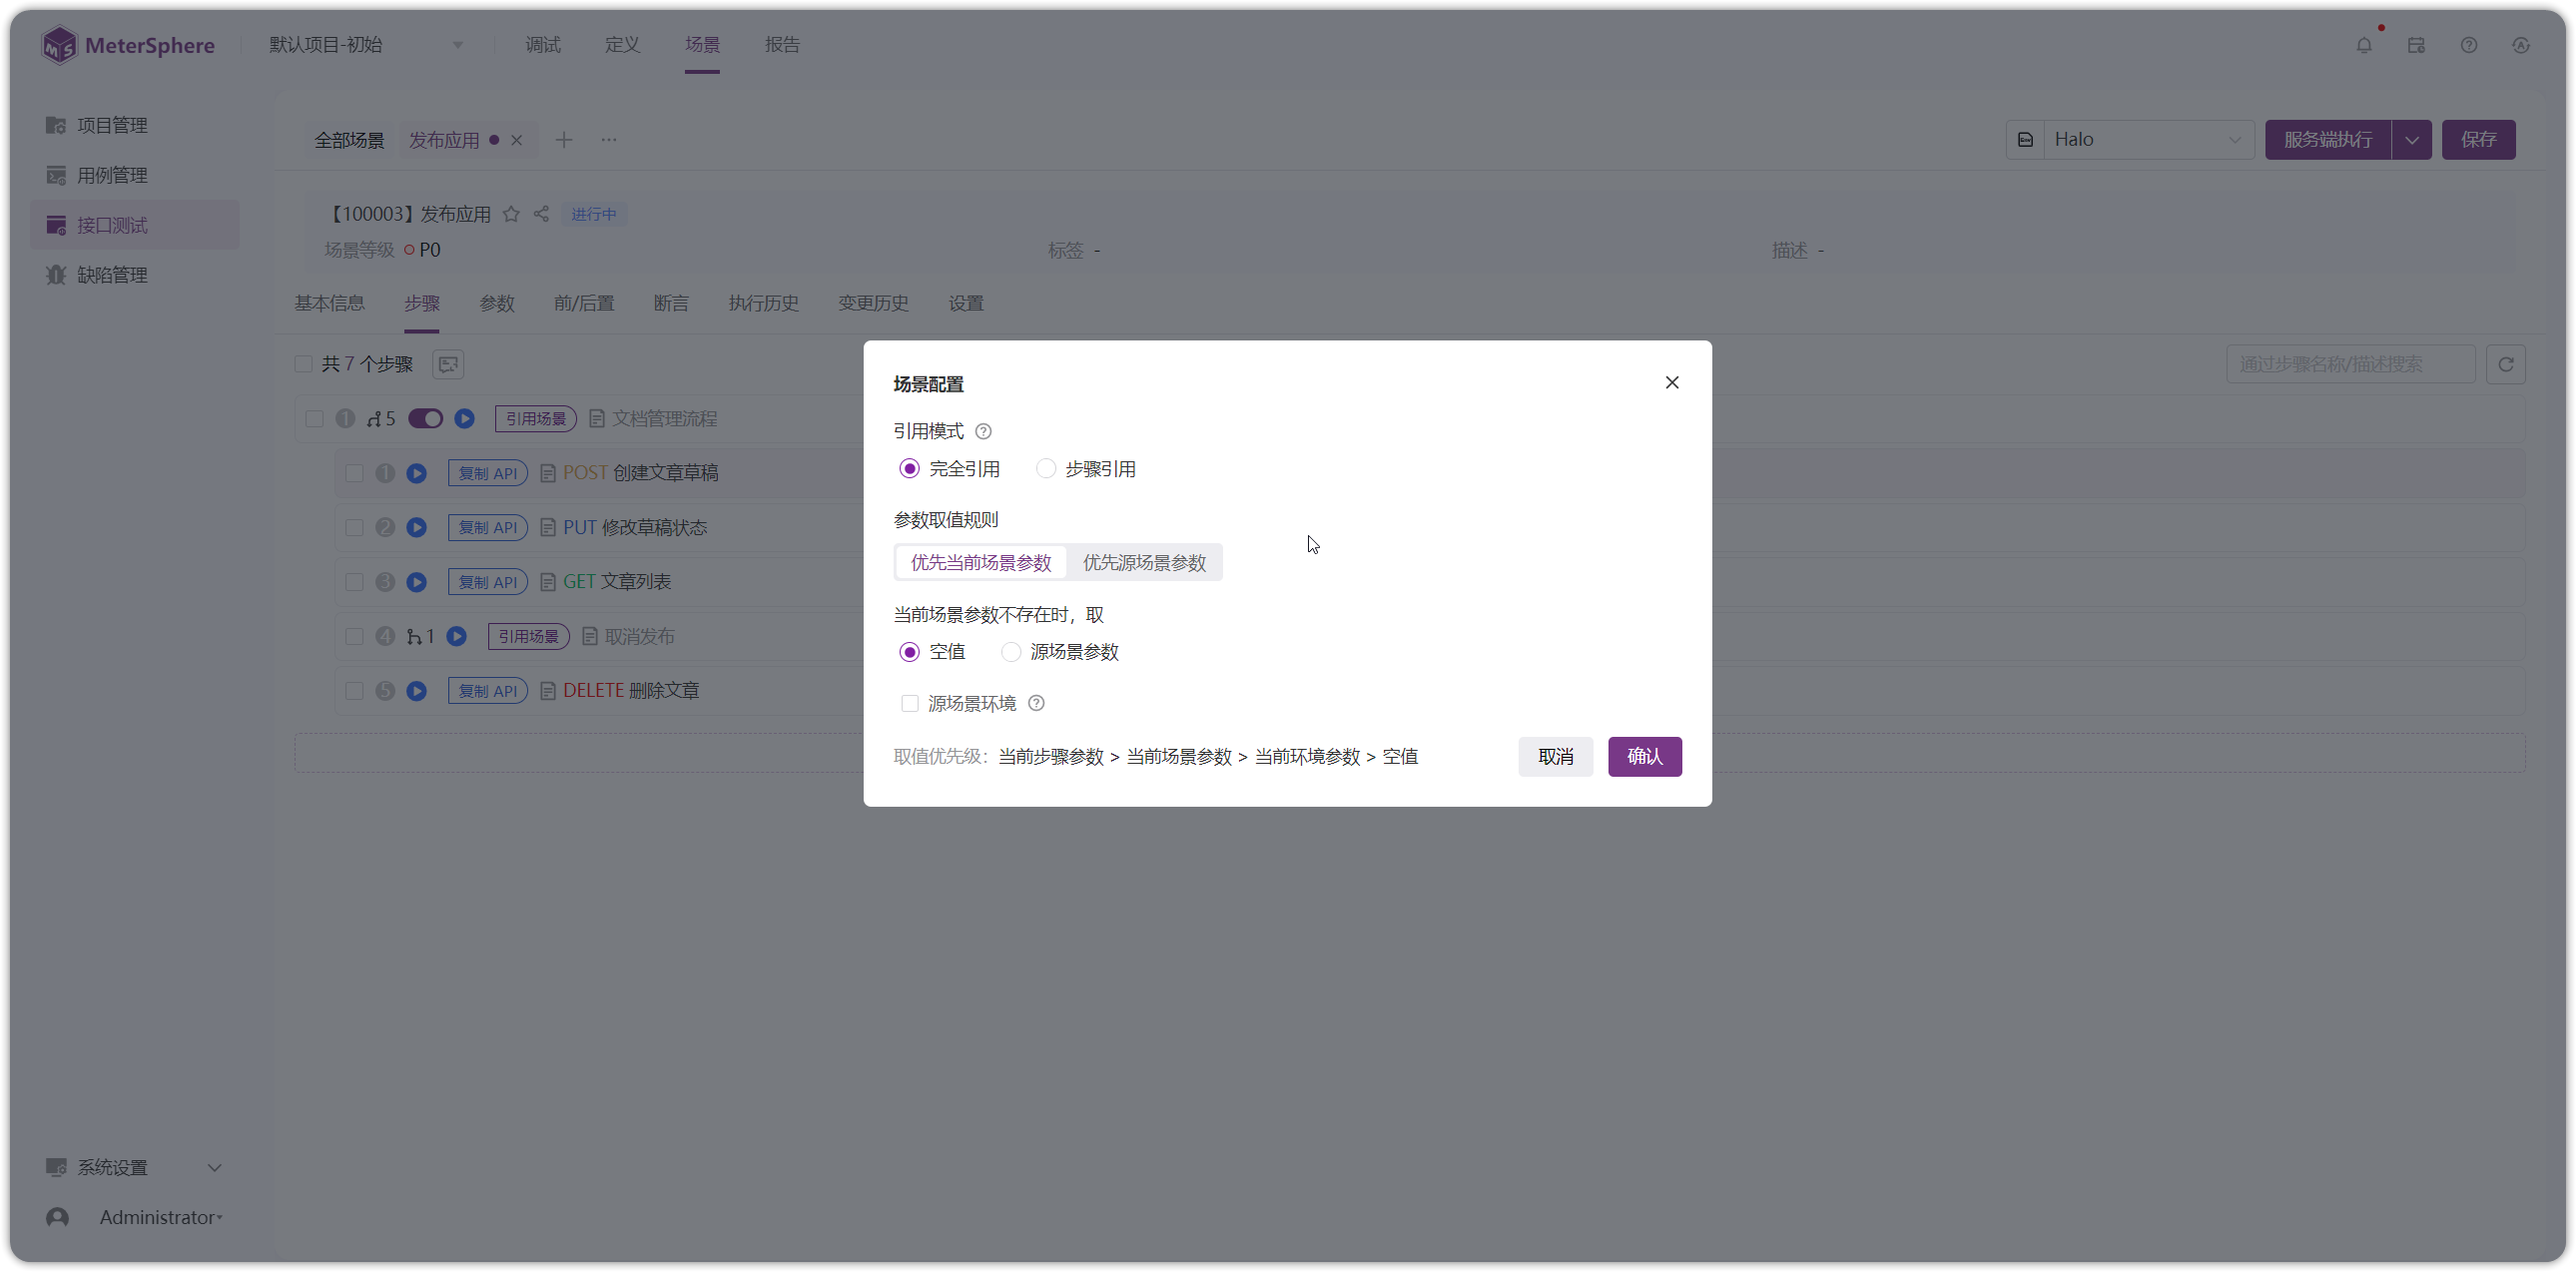
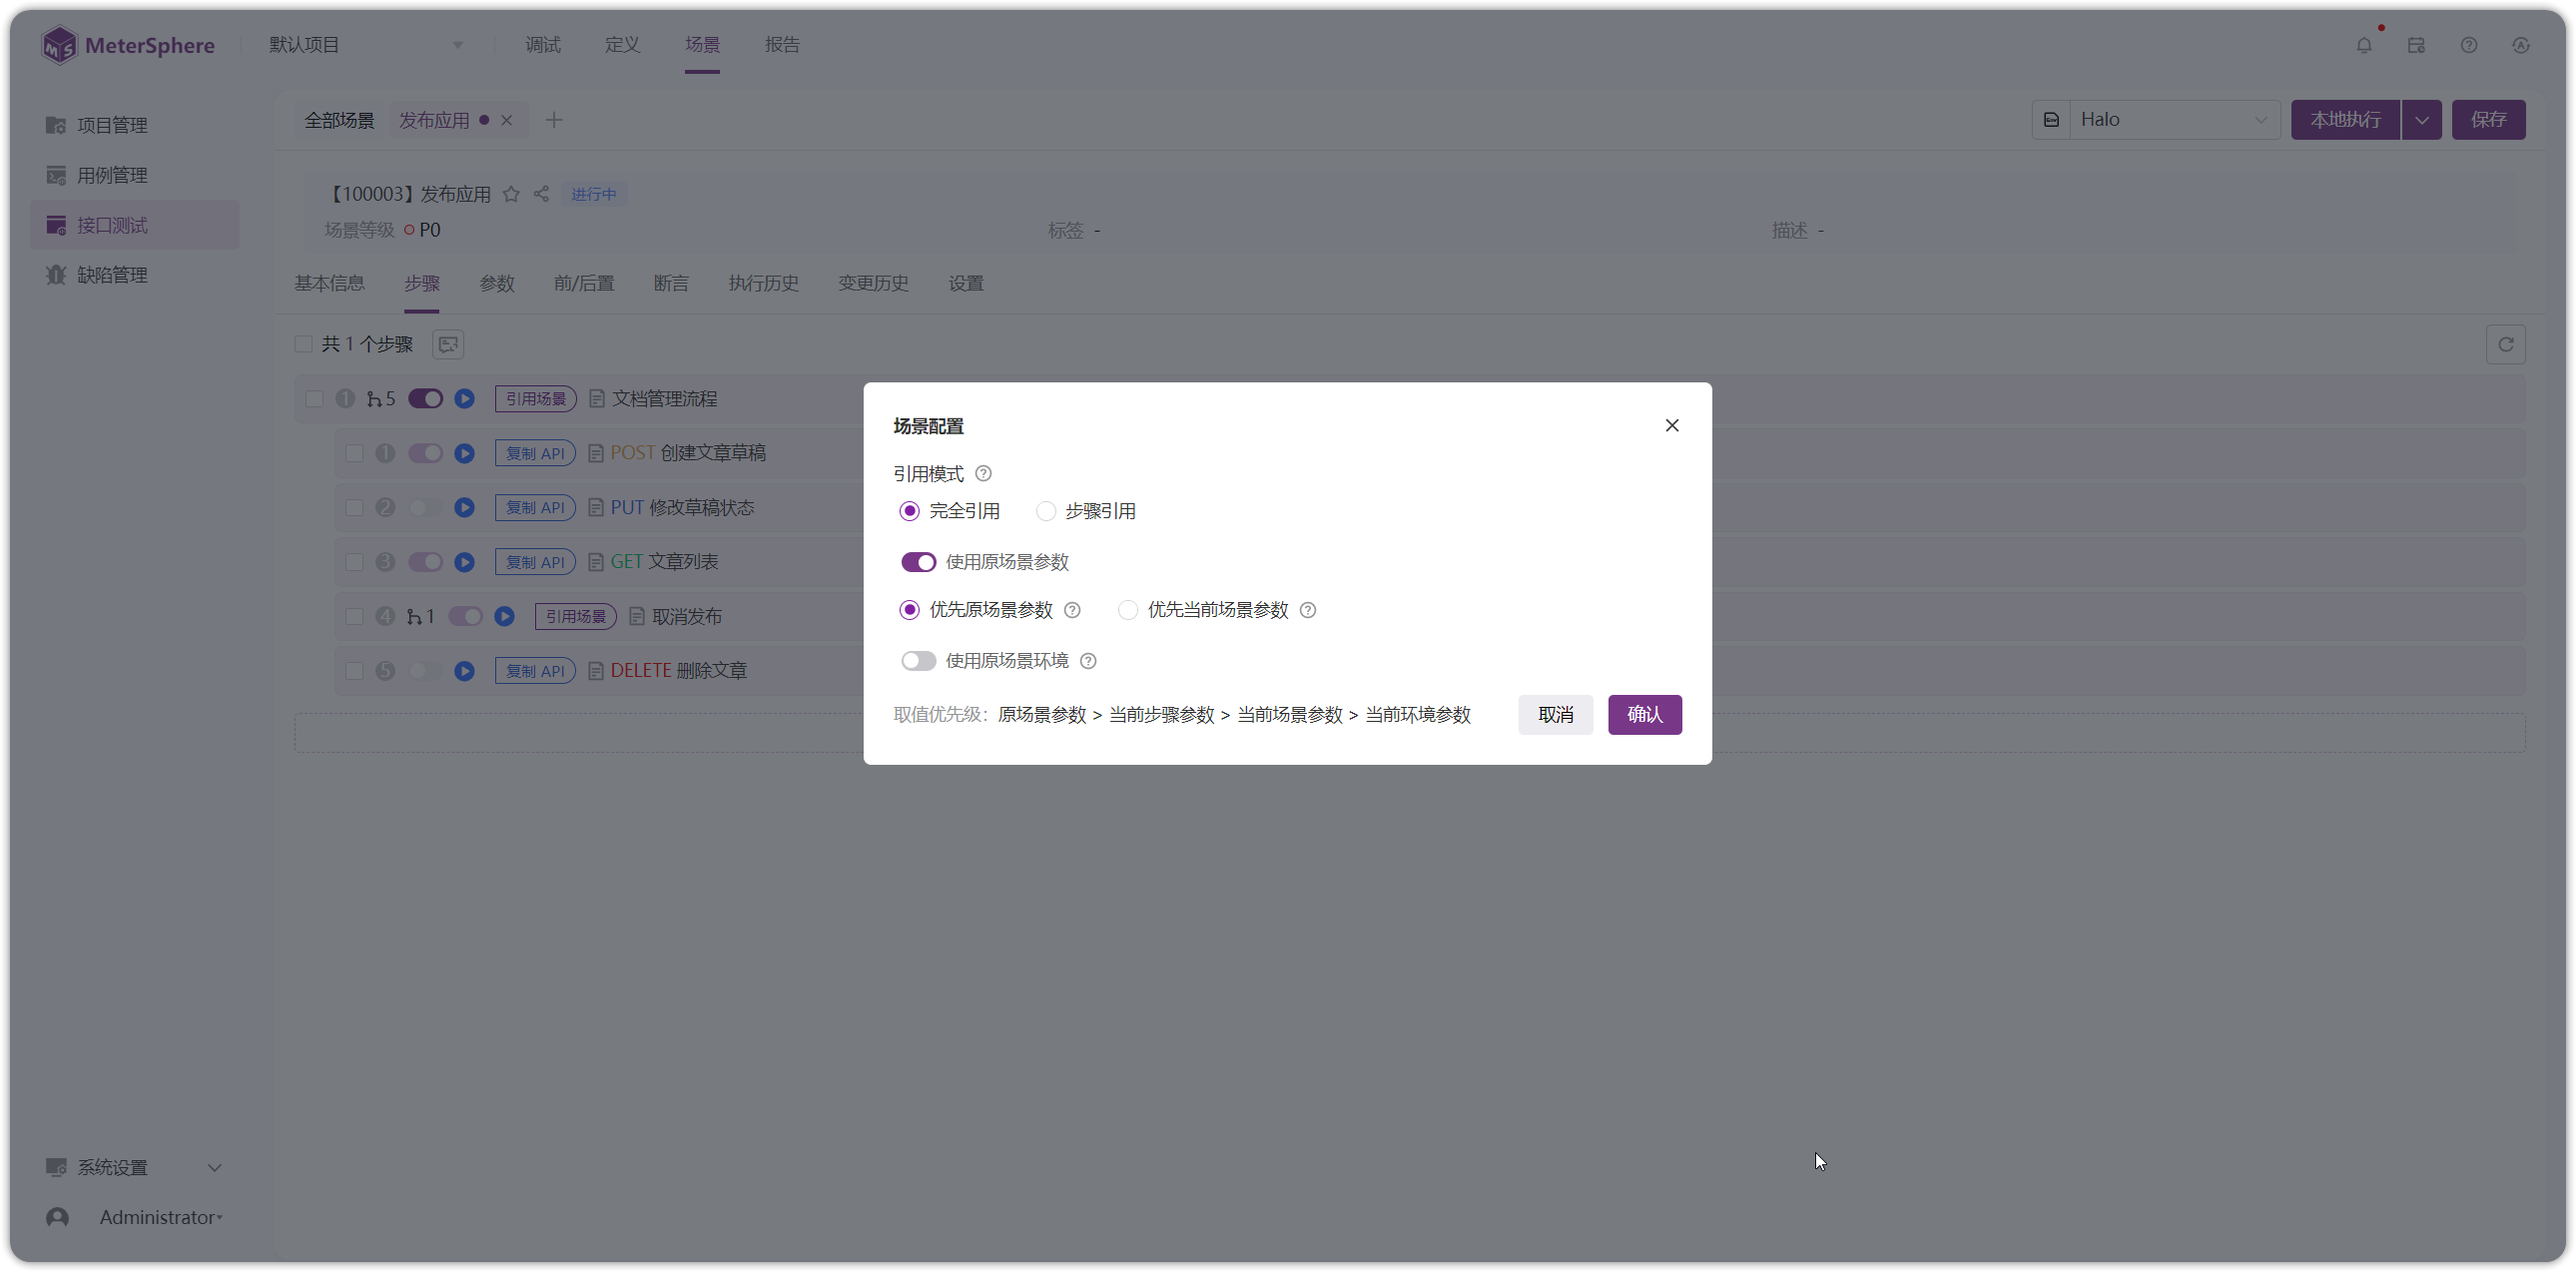
modified: 接口场景

diff --git a/docs/user_manual/api_test/api_automation.md b/docs/user_manual/api_test/api_automation.md
@@ -82,11 +82,11 @@ description: MeterSphere 一站式开源持续测试平台官方文档。MeterSp
 
 !!! ms-abstract "字段说明"
 
-    - **引用模式**：引用步骤不可修改，跟随源数据变化而变化，引用的源数据被删除时，ID和步骤名置灰，操作仅支持“移除”。
-         - **完全引用**：跟随源步骤内容及步骤状态变化，步骤状态不可调整。
-         - **步骤引用**：仅跟随源步骤内容变化，步骤状态可调整。
-    - **参数取值规则**：可设置优先使用当前场景参数或源场景参数，场景参数不存在时为空值还是源场景参数值。
-    - **源场景环境**：设置该引用场景的运行环境，包含环境参数。
+    - **引用模式**：引用步骤不可修改，跟随原数据变化而变化，引用的原数据被删除时，ID和步骤名置灰，操作仅支持“移除”。
+         - **完全引用**：跟随原步骤内容及步骤状态变化，步骤状态不可调整。
+         - **步骤引用**：仅跟随原步骤内容变化，步骤状态可调整。
+    - **参数取值规则**：可设置优先使用当前场景参数或原场景参数，场景参数不存在时为空值还是原场景参数值。
+    - **原场景环境**：设置该引用场景的运行环境，包含环境参数。
 
 ### 2.2 自定义请求
 !!! ms-abstract ""
